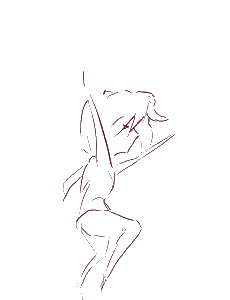
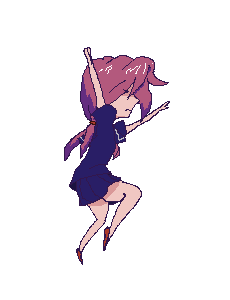
added coloured in jump

diff --git a/game/test.py b/game/test.py
@@ -2,7 +2,7 @@ import time
 
 import pygame as pygame
 
-from game.buttonData import button
+# from game.buttonData import button
 from game.imageio import ImageIO
 from game.cv import CVer
 
@@ -41,16 +41,16 @@ def test(G, cam='ree'):
                     game.key_up(PY_MAPPING[event.key])
                     keys_down[PY_MAPPING[event.key]] = False
 
-        curKey = button()
-        buttonID = curKey.buttonID
-        state = curKey.state
-
-        for index in ARDUINO_MAPPING:
-            if index == buttonID:
-                if state == 1:
-                    game.key_down(ARDUINO_MAPPING[buttonID])
-                if state == 0:
-                    game.key_up(ARDUINO_MAPPING[buttonID])
+        # curKey = button()
+        # buttonID = curKey.buttonID
+        # state = curKey.state
+        #
+        # for index in ARDUINO_MAPPING:
+        #     if index == buttonID:
+        #         if state == 1:
+        #             game.key_down(ARDUINO_MAPPING[buttonID])
+        #         if state == 0:
+        #             game.key_up(ARDUINO_MAPPING[buttonID])
 
 
 

diff --git a/game/Games/ree.py b/game/Games/ree.py
@@ -43,17 +43,17 @@ class Stuart(PixelObject):
         super().__init__(pos)
         self.facing = 'right'
         self.state: str = 'rest'
-        self.game_size = (230, 300)
+        self.game_size = (115, 150)
 
         def A(nm: str, off:Tuple[int,int]=(0,0)):
             return AnimationState(nm, self.game_size, Vector2(off[0],off[1]))
 
         self.states: Dict[str, AnimationState] = {
-            'rest': A('ree/walk_0.png',),
-            'walk1': A('ree/walk_1.png',),
-            'walk2': A('ree/walk_2.png',),
-            'walk3': A('ree/walk_3.png',),
-            'walk4': A('ree/walk_0.png',),
+            'rest': A('ree/walk1.png',),
+            'walk1': A('ree/walk2.png',),
+            'walk2': A('ree/walk3.png',),
+            'walk3': A('ree/walk4.png',),
+            'walk4': A('ree/walk1.png',),
             'jump_ready': A('ree/jump_ready.png'),
             'jump1': A('ree/jump1.png'),
             'jump2': A('ree/jump2.png'),

diff --git a/game/testMatch.py b/game/testMatch.py
@@ -9,7 +9,7 @@ MATCH_CNT = 10
 
 
 def match(fnd: np.ndarray, img: np.ndarray):
-    orb = cv2.ORB_create(nfeatures=2000)
+    orb = cv2.ORB_create(nfeatures=500)
 
     kp1 = orb.detect(fnd, None)
     kp1, des1 = orb.compute(fnd, kp1)

diff --git a/game/matching.py b/game/matching.py
@@ -1,0 +1,3 @@
+class Matcher:
+    def __init__(self):
+        pass
